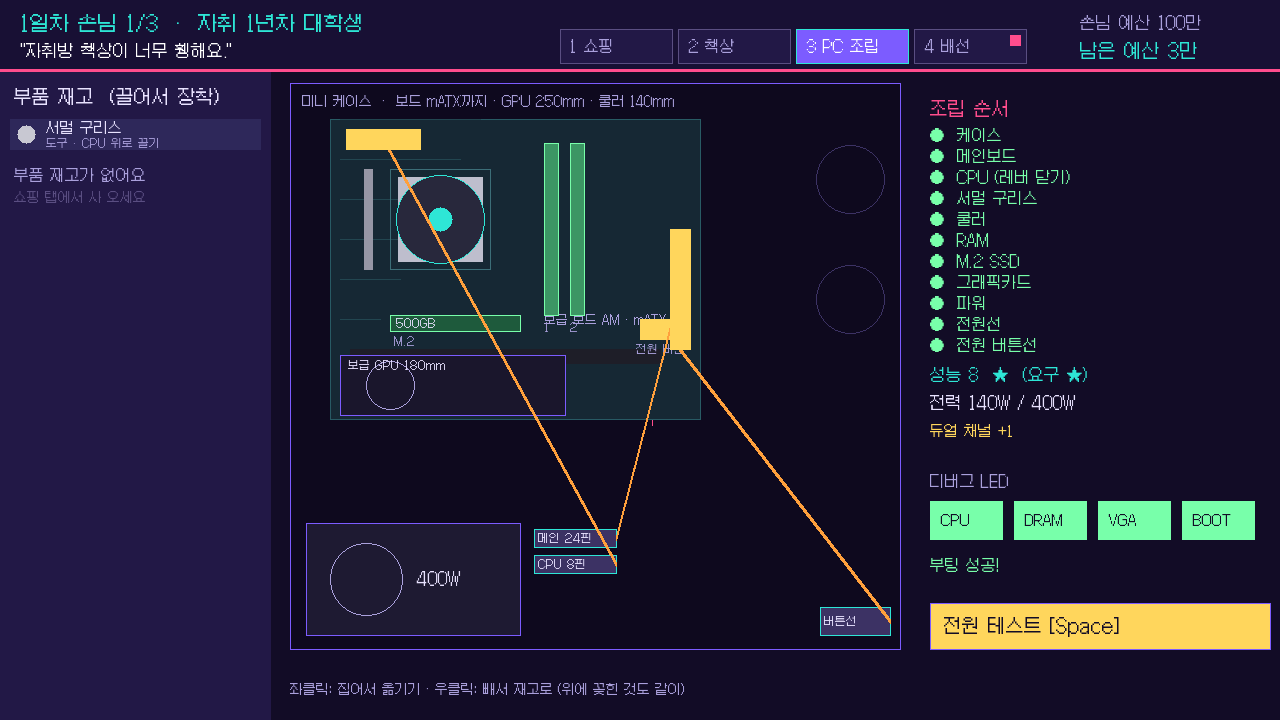
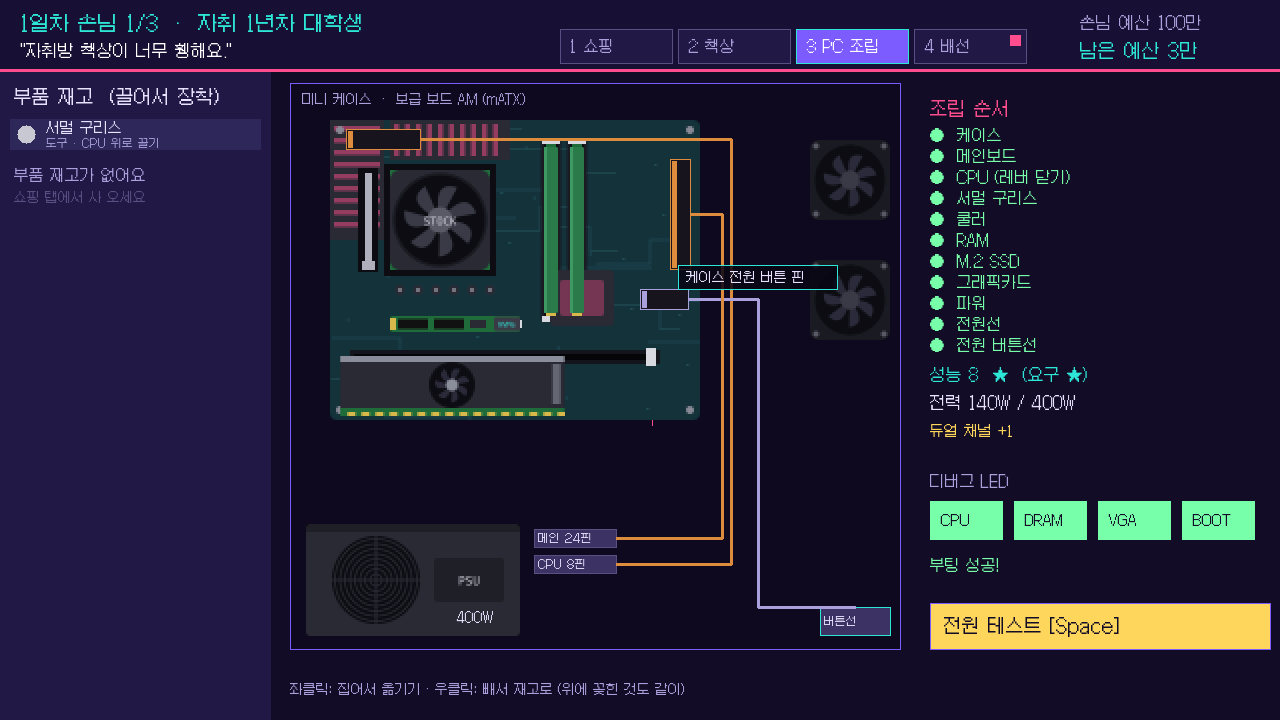
PC 조립 화면 정리 · 실사풍 부품: 메인보드 · CPU · 쿨러 · RAM · GPU · 파워 · SSD · 케이스 팬 그림, 상시 라벨 대신 툴팁, 전원선 측면 통로 배선
Claude-Session: https://claude.ai/code/session_015NHYVWJqA9gnniJqxpTcqF

diff --git a/tools/inbuild_sprites.js b/tools/inbuild_sprites.js
@@ -1,0 +1,77 @@
+// 케이스 안 조립 화면용 실사풍 부품 그림. build_mode.py의 좌표(보드 기준)와 1:1로 맞춘다.
+// 보드 좌표: 위가 0인 SVG 좌표. ATX 460x364, mATX 370x300.
+module.exports = (S, h) => {
+  const { glow, RGB } = h;
+  const board = (W, H, pcb, trace, heat, accent, slots) => {
+    const ram = [...Array(slots)].map((_, i) => {
+      const x = 214 + i * 26;
+      return `<rect x="${x - 3}" y="20" width="20" height="180" rx="2" fill="#1a1a22"/><rect x="${x}" y="24" width="14" height="172" fill="#0c0c12"/>
+        <rect x="${x - 2}" y="18" width="18" height="6" fill="#d8d8e0"/><rect x="${x - 2}" y="196" width="18" height="6" fill="#d8d8e0"/>`;
+    }).join('');
+    return [W, H, `<rect width="${W}" height="${H}" rx="6" fill="${pcb}"/>
+      ${[...Array(18)].map((_, i) => `<path d="M${(i * 53) % W} ${(i * 37) % H} h${30 + (i * 7) % 60} v${(i % 3 - 1) * 24} h${20 + i % 5 * 8}" stroke="${trace}" stroke-width="1.4" fill="none"/>`).join('')}
+      ${[...Array(40)].map((_, i) => `<rect x="${(i * 89) % (W - 6)}" y="${(i * 61) % (H - 6)}" width="3" height="2" fill="${trace}"/>`).join('')}
+      <rect x="0" y="0" width="54" height="120" fill="${heat}"/>${[...Array(9)].map((_, i) => `<rect x="4" y="${6 + i * 12}" width="46" height="5" fill="${accent}" opacity=".5"/>`).join('')}
+      <rect x="60" y="0" width="120" height="40" fill="${heat}"/>${[...Array(10)].map((_, i) => `<rect x="${64 + i * 11}" y="4" width="5" height="32" fill="${accent}" opacity=".5"/>`).join('')}
+      <rect x="54" y="44" width="112" height="112" fill="#0c0c12"/><rect x="60" y="50" width="100" height="100" fill="#2a2a34"/>
+      ${[...Array(12)].map((_, r) => [...Array(12)].map((_, c) => `<rect x="${64 + c * 8}" y="${54 + r * 8}" width="2" height="2" fill="#b89a4a"/>`).join('')).join('')}
+      <rect x="28" y="48" width="20" height="104" fill="#0c0c12"/>
+      ${ram}
+      <rect x="16" y="10" width="74" height="20" fill="#111118"/>${[...Array(8)].map((_, i) => `<rect x="${20 + i * 9}" y="14" width="6" height="12" fill="#2a2a34"/>`).join('')}
+      <rect x="${W - 30}" y="40" width="20" height="110" fill="#111118"/>${[...Array(12)].map((_, i) => `<rect x="${W - 27}" y="${44 + i * 9}" width="14" height="6" fill="#2a2a34"/>`).join('')}
+      <rect x="20" y="${H - 70}" width="${W - 60}" height="14" fill="#14141c"/><rect x="24" y="${H - 66}" width="${W - 68}" height="6" fill="#050508"/><rect x="${W - 54}" y="${H - 72}" width="10" height="18" fill="#d8d8e0"/>
+      <rect x="60" y="${H - 104}" width="130" height="16" rx="2" fill="#0c0c12"/><rect x="186" y="${H - 100}" width="6" height="8" fill="#d8d8e0"/>
+      <rect x="${W - 60}" y="${H - 130}" width="48" height="20" fill="#111118"/>${[...Array(5)].map((_, i) => `<rect x="${W - 56 + i * 9}" y="${H - 126}" width="4" height="4" fill="#d8b84a"/><rect x="${W - 56 + i * 9}" y="${H - 118}" width="4" height="4" fill="#d8b84a"/>`).join('')}
+      <rect x="${W - 150}" y="${H - 150}" width="64" height="56" rx="4" fill="${heat}"/><rect x="${W - 140}" y="${H - 140}" width="44" height="36" rx="3" fill="${accent}" opacity=".35"/>
+      ${[...Array(6)].map((_, i) => `<circle cx="${70 + i * 18}" cy="170" r="5" fill="#2a2a34"/><circle cx="${70 + i * 18}" cy="170" r="2" fill="#8a8a96"/>`).join('')}
+      <circle cx="10" cy="10" r="4" fill="#8a8a96"/><circle cx="${W - 10}" cy="10" r="4" fill="#8a8a96"/><circle cx="10" cy="${H - 10}" r="4" fill="#8a8a96"/><circle cx="${W - 10}" cy="${H - 10}" r="4" fill="#8a8a96"/>`];
+  };
+  const DARK = ['#14323a', '#1f4a54', '#2a2a34', '#5a5a66'];
+  S.inb_mb1 = board(370, 300, DARK[0], DARK[1], DARK[2], '#ff4d8d', 2);
+  S.inb_mb2 = board(370, 300, DARK[0], DARK[1], DARK[2], '#2ee6d6', 2);
+  S.inb_mb3 = board(460, 364, '#16161e', '#2a2a3a', '#3a3a48', '#7b5cff', 4);
+  S.inb_mb4 = board(460, 364, '#16161e', '#2a2a3a', '#3a3a48', '#ff4d8d', 4);
+  S.inb_mb5 = board(460, 364, '#dcdbe6', '#c4c2d2', '#f4f4fa', '#9aa0b4', 4);
+
+  S.inb_cpu = [100, 100, `<rect width="100" height="100" fill="#1f6b3a"/><rect x="8" y="8" width="84" height="84" rx="3" fill="#c8ccd6"/>
+    <rect x="8" y="8" width="84" height="84" rx="3" fill="url(#ih)"/><defs><linearGradient id="ih" x1="0" y1="0" x2="1" y2="1"><stop offset="0" stop-color="#fff" stop-opacity=".5"/><stop offset=".5" stop-color="#fff" stop-opacity="0"/><stop offset="1" stop-color="#000" stop-opacity=".2"/></linearGradient></defs>
+    <rect x="22" y="40" width="56" height="5" fill="#8a8e9a"/><rect x="28" y="52" width="44" height="4" fill="#8a8e9a"/><path d="M8 92 L16 92 L8 84 Z" fill="#d8b84a"/>`];
+  S.inb_paste = [100, 100, `<path d="M50 22 Q72 24 78 50 Q76 76 50 78 Q24 76 22 50 Q26 26 50 22 Z" fill="#b8bcc6"/><path d="M40 36 Q52 32 60 40" stroke="#e8eaf0" stroke-width="4" fill="none"/>`];
+  const fan = (cx, cy, r, blade, hub, ring) => `<circle cx="${cx}" cy="${cy}" r="${r}" fill="#0c0c12"/>${[...Array(7)].map((_, i) => `<path d="M${cx} ${cy} Q${cx + r * 0.9 * Math.cos(i * 0.9)} ${cy + r * 0.9 * Math.sin(i * 0.9)} ${cx + r * 0.8 * Math.cos(i * 0.9 + 0.7)} ${cy + r * 0.8 * Math.sin(i * 0.9 + 0.7)} Z" fill="${blade}"/>`).join('')}
+    <circle cx="${cx}" cy="${cy}" r="${r * 0.28}" fill="${hub}"/><circle cx="${cx}" cy="${cy}" r="${r}" fill="none" stroke="${ring}" stroke-width="${Math.max(2, r * 0.06)}"/>`;
+  S.inb_cool1 = [136, 136, `<rect x="18" y="18" width="100" height="100" rx="10" fill="#2a2a34"/>${fan(68, 68, 46, '#3a3a46', '#5a5a66', '#1a1a22')}<text x="68" y="73" font-size="11" fill="#c8ccd6" text-anchor="middle" font-family="monospace">STOCK</text>`];
+  S.inb_cool2 = [136, 136, `<rect x="4" y="10" width="128" height="116" rx="4" fill="#9aa0ac"/>${[...Array(24)].map((_, i) => `<rect x="6" y="${12 + i * 4.6}" width="124" height="2" fill="#6e7480"/>`).join('')}
+    ${[30, 54, 82, 106].map(x => `<rect x="${x}" y="6" width="6" height="124" rx="3" fill="#c88a4a"/>`).join('')}<rect x="44" y="0" width="48" height="136" rx="4" fill="#14141c"/>${fan(68, 68, 22, '#2a2a3a', '#ff4d8d', '#ff4d8d')}`];
+  S.inb_cool3 = [136, 136, `<defs>${RGB('wb')}${glow('wg', 4)}</defs><path d="M110 40 Q132 40 132 0 M110 96 Q136 96 136 0" stroke="#14141c" stroke-width="10" fill="none"/>
+    <circle cx="68" cy="68" r="52" fill="#14141c"/><circle cx="68" cy="68" r="44" fill="none" stroke="url(#wb)" stroke-width="6" filter="url(#wg)"/><circle cx="68" cy="68" r="44" fill="none" stroke="url(#wb)" stroke-width="3"/>
+    <circle cx="68" cy="68" r="30" fill="#1f1f2a"/><text x="68" y="74" font-size="16" fill="#2ee6d6" text-anchor="middle" font-family="monospace">42°</text>`];
+  const stick = (body, top, chips) => [28, 344, `<rect x="4" y="0" width="20" height="344" fill="#1f6b3a"/>${[...Array(8)].map((_, i) => `<rect x="7" y="${14 + i * 40}" width="14" height="28" fill="#111"/>`).join('')}
+    <rect x="0" y="6" width="28" height="332" rx="3" fill="${body}"/><rect x="0" y="6" width="6" height="332" fill="${top}"/>${chips}
+    <rect x="4" y="338" width="20" height="6" fill="#d8b84a"/>`];
+  S.inb_ram1 = stick('#2a7a4a', '#3c9a62', '');
+  S.inb_ram2 = stick('#2a2a34', '#ff4d8d', `<rect x="10" y="140" width="10" height="60" fill="#3a3a46"/>`);
+  S.inb_ram3 = stick('#3a2d6e', '#c9b8ff', `<rect x="10" y="120" width="10" height="100" fill="#7b5cff"/>`);
+  S.inb_ram4 = [28, 344, `<defs>${RGB('rr', 1)}${glow('rg', 3)}</defs><rect x="0" y="6" width="28" height="332" rx="3" fill="#14141c"/><rect x="0" y="6" width="8" height="332" fill="url(#rr)" filter="url(#rg)"/><rect x="0" y="6" width="6" height="332" fill="url(#rr)"/><rect x="4" y="338" width="20" height="6" fill="#d8b84a"/>`];
+  S.inb_ssd = [130, 16, `<rect width="130" height="16" rx="2" fill="#1f6b3a"/><rect x="8" y="3" width="30" height="10" fill="#111"/><rect x="44" y="3" width="30" height="10" fill="#111"/><rect x="80" y="4" width="16" height="8" fill="#2a2a34"/>
+    <rect x="0" y="2" width="6" height="12" fill="#d8b84a"/><rect x="104" y="1" width="26" height="14" rx="2" fill="#3a3a46"/><text x="117" y="11" font-size="7" fill="#2ee6d6" text-anchor="middle" font-family="monospace">NVMe</text>`];
+  const gpu = (len, shroud, accent, fans, white) => {
+    const W = Math.round(len * 1.25), r = 22;
+    const gap = (W - 30) / fans;
+    return [W, 60, `<rect x="0" y="0" width="${W}" height="56" rx="6" fill="${shroud}"/><rect x="0" y="52" width="${W}" height="8" fill="#1f6b3a"/>
+      ${[...Array(Math.floor(W / 14))].map((_, i) => `<rect x="${8 + i * 14}" y="56" width="8" height="4" fill="#d8b84a"/>`).join('')}
+      <rect x="0" y="0" width="${W}" height="6" fill="${accent}"/>${[...Array(fans)].map((_, i) => fan(15 + gap * (i + 0.5), 29, r, white ? '#c8ccd6' : '#2a2a3a', accent, white ? '#f4f4fa' : '#0c0c12')).join('')}
+      <rect x="${W - 12}" y="8" width="8" height="40" fill="${accent}" opacity=".6"/>`];
+  };
+  S.inb_gpu1 = gpu(180, '#2a2a34', '#8a8e9a', 1);
+  S.inb_gpu4 = gpu(200, '#2a2a34', '#2ee6d6', 2);
+  S.inb_gpu2 = gpu(280, '#1c1c26', '#7b5cff', 2);
+  S.inb_gpu5 = gpu(300, '#e8e6f2', '#c9b8ff', 2, true);
+  S.inb_gpu3 = gpu(340, '#14141c', '#ff4d8d', 3);
+  S.inb_gpu6 = gpu(360, '#0c0c12', '#ffd65c', 3);
+  const psu = (body, label) => [214, 112, `<rect width="214" height="112" rx="4" fill="${body}"/><rect x="0" y="0" width="214" height="8" fill="#000" opacity=".25"/>
+    <circle cx="70" cy="56" r="44" fill="#0c0c12"/>${[...Array(8)].map((_, i) => `<circle cx="70" cy="56" r="${6 + i * 5}" fill="none" stroke="${body}" stroke-width="1.5"/>`).join('')}
+    <path d="M26 56 L114 56 M70 12 L70 100" stroke="${body}" stroke-width="2"/><rect x="128" y="34" width="70" height="44" rx="3" fill="#000" opacity=".25"/><text x="163" y="61" font-size="12" fill="#c8ccd6" text-anchor="middle" font-family="monospace">${label}</text>`];
+  S.inb_casefan = [80, 80, `<rect width="80" height="80" rx="8" fill="#1a1a22"/>${fan(40, 40, 34, '#2a2a3a', '#3a3a46', '#0c0c12')}${[[6, 6], [74, 6], [6, 74], [74, 74]].map(([x, y]) => `<circle cx="${x}" cy="${y}" r="3" fill="#5a5a66"/>`).join('')}`];
+  S.inb_psu = psu('#2a2a34', 'PSU');
+  S.inb_psu_white = psu('#dcdbe6', 'PSU');
+};

diff --git a/tools/make_sprites.js b/tools/make_sprites.js
@@ -216,6 +216,7 @@ S.title_bg = [1280, 720, `<defs>${sky('tsky')}</defs><rect width="1280" height="
   <rect x="100" y="150" width="700" height="250" fill="#120a26" opacity=".55"/>`];
 
 require('./more_sprites')(S, { glow, RGB, kb, lamp, tower });
+require('./inbuild_sprites')(S, { glow, RGB });
 
 (async () => {
   for (const [name, [w, h, body]] of Object.entries(S)) {

diff --git a/build_mode.py b/build_mode.py
@@ -6,7 +6,7 @@ import game_framework
 import decorate_mode
 import state
 import ui
-from common import WIDTH, HEIGHT, PARTS, box, outline, text, to_canvas_y, inside, draw_fit
+from common import WIDTH, HEIGHT, PARTS, box, outline, text, to_canvas_y, inside, draw_fit, sprite
 from pcbuild import POST_STAGES
 
 ORDER = ['CASE', 'MB', 'CPU', 'COOLER', 'RAM', 'SSD', 'GPU', 'PSU']
@@ -91,9 +91,9 @@ def lever_rect():
 def socket_rect(cable):
     mx1, my1, mx2, my2 = mb_rect()
     if cable == 'front':
-        return mx2 - 60, my1 + 80, mx2 - 12, my1 + 100
+        return mx2 - 60, my1 + 110, mx2 - 12, my1 + 130
     if cable == '24pin':
-        return mx2 - 30, my2 - 230, mx2 - 10, my2 - 110
+        return mx2 - 30, my2 - 150, mx2 - 10, my2 - 40
     if cable == 'cpu8':
         return mx1 + 16, my2 - 30, mx1 + 90, my2 - 10
     gx1, gy1, gx2, gy2 = gpu_rect()
@@ -276,13 +276,21 @@ def draw_case():
         return
     box(x1, y1, x2, y2, (14, 9, 30))
     outline(x1, y1, x2, y2, PINK if case['id'] == 'case3' else (124, 92, 255))
-    text(x1 + 12, y2 - 18, f"{case['name']}  ·  보드 {case['mb_max']}까지 · GPU {case['gpu_max']}mm · 쿨러 {case['cooler_max']}mm", 13, QUIET)
-    for fy in (420, 540):  # 뒷면 팬
-        draw_circle(x2 - 50, fy, 34, 60, 50, 100, 255, False)
+    mb = state.pc.spec('MB')
+    board = f"  ·  {mb['name']} ({mb['size']})" if mb else ''
+    text(x1 + 12, y2 - 16, f"{case['name']}{board}", 13, QUIET)
+    for fy in (420, 540):  # 뒷면 케이스 팬
+        sprite('inb_casefan').draw(x2 - 50, fy, 80, 80)
     # GPU 길이 한계선
     gx = gpu_rect()[0] + int(case['gpu_max'] * 1.25)
     if gx < x2:
         draw_line(gx, mb_rect()[1] - 6, gx, mb_rect()[1] + 74, *PINK)
+
+
+def put(name, r):
+    """스프라이트를 영역 r에 꽉 맞춰 그린다."""
+    x1, y1, x2, y2 = r
+    sprite(name).draw((x1 + x2) / 2, (y1 + y2) / 2, x2 - x1, y2 - y1)
 
 
 def draw_board():
@@ -293,102 +301,76 @@ def draw_board():
             outline(mx1, my1, mx2, my2, DIM)
             text(mx1 + 110, (my1 + my2) // 2, '메인보드 자리', 18, DIM)
         return
-    box(mx1, my1, mx2, my2, (22, 40, 52))
-    outline(mx1, my1, mx2, my2, (40, 90, 100))
-    for k in range(6):  # 회로 무늬
-        draw_line(mx1 + 10, my1 + 100 + k * 40, mx1 + 50 + k * 20, my1 + 100 + k * 40, 34, 70, 80)
-    text(mx1 + 214, my1 + 100, f"{mb['name']} · {mb['size']}", 12, QUIET)
-    # 빈 자리들
-    x1, y1, x2, y2 = cpu_rect()
-    outline(x1, y1, x2, y2, (60, 110, 120))
-    text(x1 + 18, (y1 + y2) // 2, f"소켓 {mb['socket']}", 12, (90, 140, 150))
-    for i in range(4):
-        r = ram_rect(i)
-        if i < mb['ram_slots']:
-            box(*r, (30, 30, 40))
-            text(r[0], r[1] - 12, 'AB'[i // 2] + str(i % 2 + 1) if mb['ram_slots'] == 4 else str(i + 1), 11, QUIET)
-    box(*pcie_rect(), (30, 30, 40))
-    r = ssd_rect()
-    outline(*r, (60, 110, 120))
-    text(r[0] + 4, r[1] - 10, 'M.2', 11, QUIET)
-    r = socket_rect('front')
-    box(*r, (40, 40, 52))
-    text(r[0] - 4, r[1] - 10, '전원 버튼', 11, QUIET)
+    put('inb_' + mb['id'], mb_rect())
     # 소켓 레버: 열리면 위로 선다
     lx1, ly1, lx2, ly2 = lever_rect()
     if state.pc.lever_open:
-        box(lx1 + 4, ly2, lx2 - 4, ly2 + 60, (200, 200, 215))
-        text(lx1 - 6, ly2 + 72, '열림', 11, GOLD)
+        box(lx1 + 5, ly2, lx2 - 5, ly2 + 56, (216, 216, 224))
+        box(lx1 + 2, ly2 + 50, lx2 - 2, ly2 + 58, (216, 216, 224))
     else:
-        box(lx1 + 4, ly1, lx2 - 4, ly2, (150, 150, 165))
-    text(pcie_rect()[0], pcie_rect()[1] - 12, 'PCIe x16', 11, QUIET)
-    for c in ('24pin', 'cpu8'):
-        box(*socket_rect(c), (40, 40, 52))
+        box(lx1 + 5, ly1 + 4, lx2 - 5, ly2 - 4, (176, 176, 188))
+        box(lx1 + 2, ly1, lx2 - 2, ly1 + 8, (176, 176, 188))
 
 
 def draw_parts():
-    cpu, cooler, gpu = state.pc.spec('CPU'), state.pc.spec('COOLER'), state.pc.spec('GPU')
+    pc = state.pc
+    cpu, cooler, gpu = pc.spec('CPU'), pc.spec('COOLER'), pc.spec('GPU')
     if cpu:
-        x1, y1, x2, y2 = cpu_rect()
-        box(x1 + 8, y1 + 8, x2 - 8, y2 - 8, (190, 190, 205))
-        text(x1 + 14, (y1 + y2) // 2, cpu['name'][:5], 12, (30, 30, 40))
-    if cpu and state.pc.paste and not cooler:
-        x1, y1, x2, y2 = cpu_rect()
-        draw_circle((x1 + x2) // 2, (y1 + y2) // 2, 18, 170, 170, 180, 255, True)
-    ssd = state.pc.spec('SSD')
-    if ssd:
-        x1, y1, x2, y2 = ssd_rect()
-        box(x1, y1, x2, y2, (30, 90, 60))
-        outline(x1, y1, x2, y2, GREEN)
-        text(x1 + 6, (y1 + y2) // 2, ssd['capacity'], 11, INK)
+        put('inb_cpu', cpu_rect())
+    if cpu and pc.paste and not cooler:
+        put('inb_paste', cpu_rect())
+    if pc.get('SSD'):
+        put('inb_ssd', ssd_rect())
     if cooler:
-        x1, y1, x2, y2 = cooler_rect()
-        cx, cy = (x1 + x2) // 2, (y1 + y2) // 2
-        if cooler['id'] == 'cool2':
-            box(x1, y1, x2, y2, (60, 64, 80))
-            for k in range(8):
-                draw_line(x1 + 6, y1 + 10 + k * 16, x2 - 6, y1 + 10 + k * 16, 120, 124, 140)
-        draw_circle(cx, cy, 44, 40, 40, 60, 255, True)
-        draw_circle(cx, cy, 44, *CYAN, 255, False)
-        draw_circle(cx, cy, 12, *CYAN, 255, True)
-    for i, r in enumerate(state.pc.ram):
+        put('inb_' + cooler['id'], cooler_rect())
+    for i, r in enumerate(pc.ram):
         if r:
-            x1, y1, x2, y2 = ram_rect(i)
-            box(x1, y1, x2, y2, (60, 150, 100) if r != 'ram3' else (124, 92, 255))
-            outline(x1, y1, x2, y2, GREEN)
+            put('inb_' + r, ram_rect(i))
     if gpu:
-        x1, y1, x2, y2 = gpu_rect()
-        box(x1, y1, x2, y2, (26, 22, 44))
-        outline(x1, y1, x2, y2, PINK if gpu['id'] == 'gpu3' else (124, 92, 255))
-        fans = 3 if gpu['length'] > 300 else 2 if gpu['length'] > 200 else 1
-        for k in range(fans):
-            draw_circle(x1 + 50 + k * 100, (y1 + y2) // 2, 24, *QUIET, 255, False)
-        text(x1 + 8, y2 - 10, f"{gpu['name']} {gpu['length']}mm", 11, INK)
+        put('inb_' + gpu['id'], gpu_rect())
         for i in range(gpu['pcie']):
-            box(*socket_rect(f'pcie{i}'), (40, 40, 52))
-    psu = state.pc.spec('PSU')
+            box(*socket_rect(f'pcie{i}'), (20, 20, 28))
+            outline(*socket_rect(f'pcie{i}'), (90, 90, 100))
+    psu = pc.spec('PSU')
     x1, y1, x2, y2 = PSU_BAY
     if psu:
-        box(x1, y1, x2, y2, (30, 26, 50))
-        outline(x1, y1, x2, y2, (124, 92, 255))
-        draw_circle(x1 + 60, (y1 + y2) // 2, 36, *QUIET, 255, False)
-        text(x1 + 110, (y1 + y2) // 2, f"{psu['capacity']}W", 16, INK)
+        put('inb_psu_white' if psu['id'] == 'psu5' else 'inb_psu', PSU_BAY)
+        text(x1 + 150, y1 + 18, f"{psu['capacity']}W", 13, INK)
         for c in PSU_CABLES:
             if c.startswith('pcie') and int(c[-1]) >= psu['pcie']:
                 continue
             r = psu_port(c)
-            on = c in state.pc.cables
+            on = c in pc.cables
             box(*r, (60, 50, 100) if on else (24, 16, 52))
-            outline(*r, CYAN if c in state.pc.cable_targets() else DIM)
+            outline(*r, CYAN if c in pc.cable_targets() and not on else DIM)
             text(r[0] + 4, (r[1] + r[3]) // 2, CABLE_NAMES[c], 11, INK if on else QUIET)
-    elif state.pc.get('CASE'):
+    elif pc.get('CASE'):
         outline(x1, y1, x2, y2, DIM)
         text(x1 + 60, (y1 + y2) // 2, '파워 자리', 16, DIM)
 
 
-def cable_line(a, b, color):
-    for d in (-2, -1, 0, 1, 2):
-        draw_line(a[0], a[1] + d, b[0], b[1] + d, *color)
+CHANNEL_GAP = 9  # 통로 안에서 선끼리 간격
+
+
+def cable_color(c):
+    return (230, 190, 80) if c.startswith('pcie') else (220, 140, 60) if c != 'front' else (170, 160, 220)
+
+
+def cable_path(c, end):
+    """파워 포트 → 오른쪽 통로 → 소켓 높이 → 소켓. 실제 선 정리처럼 꺾인 선으로 그린다."""
+    order = list(CABLE_NAMES).index(c)
+    color = cable_color(c)
+    start = mid_right(psu_port(c)) if c != 'front' else ((FRONT_SRC[0] + FRONT_SRC[2]) // 2, FRONT_SRC[3])
+    lane = mb_rect()[2] + 22 + order * CHANNEL_GAP
+    pts = [start, (lane, start[1]), (lane, end[1]), end]
+    for a, b in zip(pts, pts[1:]):
+        cable_line(a, b, color, 1)
+
+
+def cable_line(a, b, color, w=2):
+    for d in range(-w, w + 1):
+        draw_line(a[0] + (d if a[1] != b[1] else 0), a[1] + (d if a[1] == b[1] else 0),
+                  b[0] + (d if a[1] != b[1] else 0), b[1] + (d if a[1] == b[1] else 0), *color)
 
 
 def mid_right(r):
@@ -406,8 +388,43 @@ def draw_cables():
         outline(*FRONT_SRC, CYAN if 'front' in state.pc.cable_targets() else DIM)
         text(FRONT_SRC[0] + 4, (FRONT_SRC[1] + FRONT_SRC[3]) // 2, '버튼선', 11, INK)
     for c in state.pc.cables:
-        cable_line(mid_right(psu_port(c)), center(socket_rect(c)), GOLD if c.startswith('pcie') else (255, 160, 60))
-        box(*socket_rect(c), GOLD)
+        cable_path(c, center(socket_rect(c)))
+        r = socket_rect(c)
+        color = cable_color(c)
+        box(*r, (24, 20, 30))                    # 커넥터 몸통
+        outline(*r, color)
+        box(r[0] + 2, r[1] + 2, r[0] + 6, r[3] - 2, color)  # 래치
+
+
+def hover_spots():
+    """(영역, 이름) — 마우스를 올렸을 때만 보여 줄 자리 이름."""
+    pc = state.pc
+    mb = pc.spec('MB')
+    if not mb:
+        return []
+    spots = [(cpu_rect(), f"CPU 소켓 {mb['socket']}" + (f" · {pc.spec('CPU')['name']}" if pc.get('CPU') else '')),
+             (lever_rect(), '소켓 레버 (클릭해서 열고 닫기)'),
+             (ssd_rect(), 'M.2 슬롯' + (f" · {pc.spec('SSD')['name']}" if pc.get('SSD') else '')),
+             (gpu_rect() if pc.get('GPU') else pcie_rect(), f"{pc.spec('GPU')['name']} · {pc.spec('GPU')['length']}mm" if pc.get('GPU') else 'PCIe x16 (그래픽카드)'),
+             (socket_rect('24pin'), '메인 24핀 소켓'), (socket_rect('cpu8'), 'CPU 8핀 소켓'), (socket_rect('front'), '케이스 전원 버튼 핀')]
+    for i in range(mb['ram_slots']):
+        name = ('A1', 'A2', 'B1', 'B2')[i] if mb['ram_slots'] == 4 else str(i + 1)
+        stick = pc.ram[i]
+        spots.append((ram_rect(i), f"RAM 슬롯 {name}" + (f" · {PARTS[stick]['name']}" if stick else '')))
+    return spots
+
+
+def draw_hover():
+    if held:
+        return
+    x, y = game_framework.mouse
+    for r, label in hover_spots():
+        if inside(x, y, grow(r, 4)):
+            w = len(label) * 13 + 16
+            box(x + 14, y + 10, x + 14 + w, y + 34, (10, 6, 22), 220)
+            outline(x + 14, y + 10, x + 14 + w, y + 34, CYAN)
+            text(x + 22, y + 22, label, 13, INK)
+            return
 
 
 def draw_drag():
@@ -423,7 +440,7 @@ def draw_drag():
     if kind == 'cable':
         r = socket_rect(what)
         outline(*grow(r, 6), CYAN)
-        cable_line(mid_right(psu_port(what)), (x, y), GOLD)
+        cable_line(mid_right(psu_port(what)) if what != 'front' else center(FRONT_SRC), (x, y), GOLD)
         return
     # 갈 수 있는 자리 미리 보기
     t = PARTS[what]['type']
@@ -522,6 +539,7 @@ def draw():
     draw_inventory()
     draw_side()
     draw_drag()
+    draw_hover()
     ui.top_bar()
     text(INV_W + 20, 30, '좌클릭: 집어서 옮기기 · 우클릭: 빼서 재고로 (위에 꽂힌 것도 같이)', 13, QUIET)
     if toast:

diff --git a/README.md b/README.md
@@ -49,7 +49,7 @@ python main.py
 | `scorer.py` | 채점 · 시너지 · 부팅 판정 (`python scorer.py`로 자체 테스트) |
 | `state.py` | 가게(돈 · 날짜 · 재고 · 업그레이드)와 주문(배치 · PC · 케이블) 상태, 정산 (`python state.py`로 자체 테스트) |
 | `data/*.json` | 소품 · 부품 · 손님 주문(날짜별) · 업그레이드 데이터 (코드 수정 없이 추가) |
-| `resource/`, `tools/make_sprites.js`, `tools/more_sprites.js` | 소품 · 방 · PC 스프라이트와 생성 스크립트 |
+| `resource/`, `tools/make_sprites.js`, `tools/more_sprites.js`, `tools/inbuild_sprites.js` | 소품 · 방 · PC 스프라이트와 생성 스크립트 |
 | `docs/` | 1차 발표 PPT, 기획서 PPT, 화면 캡처 |
 
 ## 진행 현황
